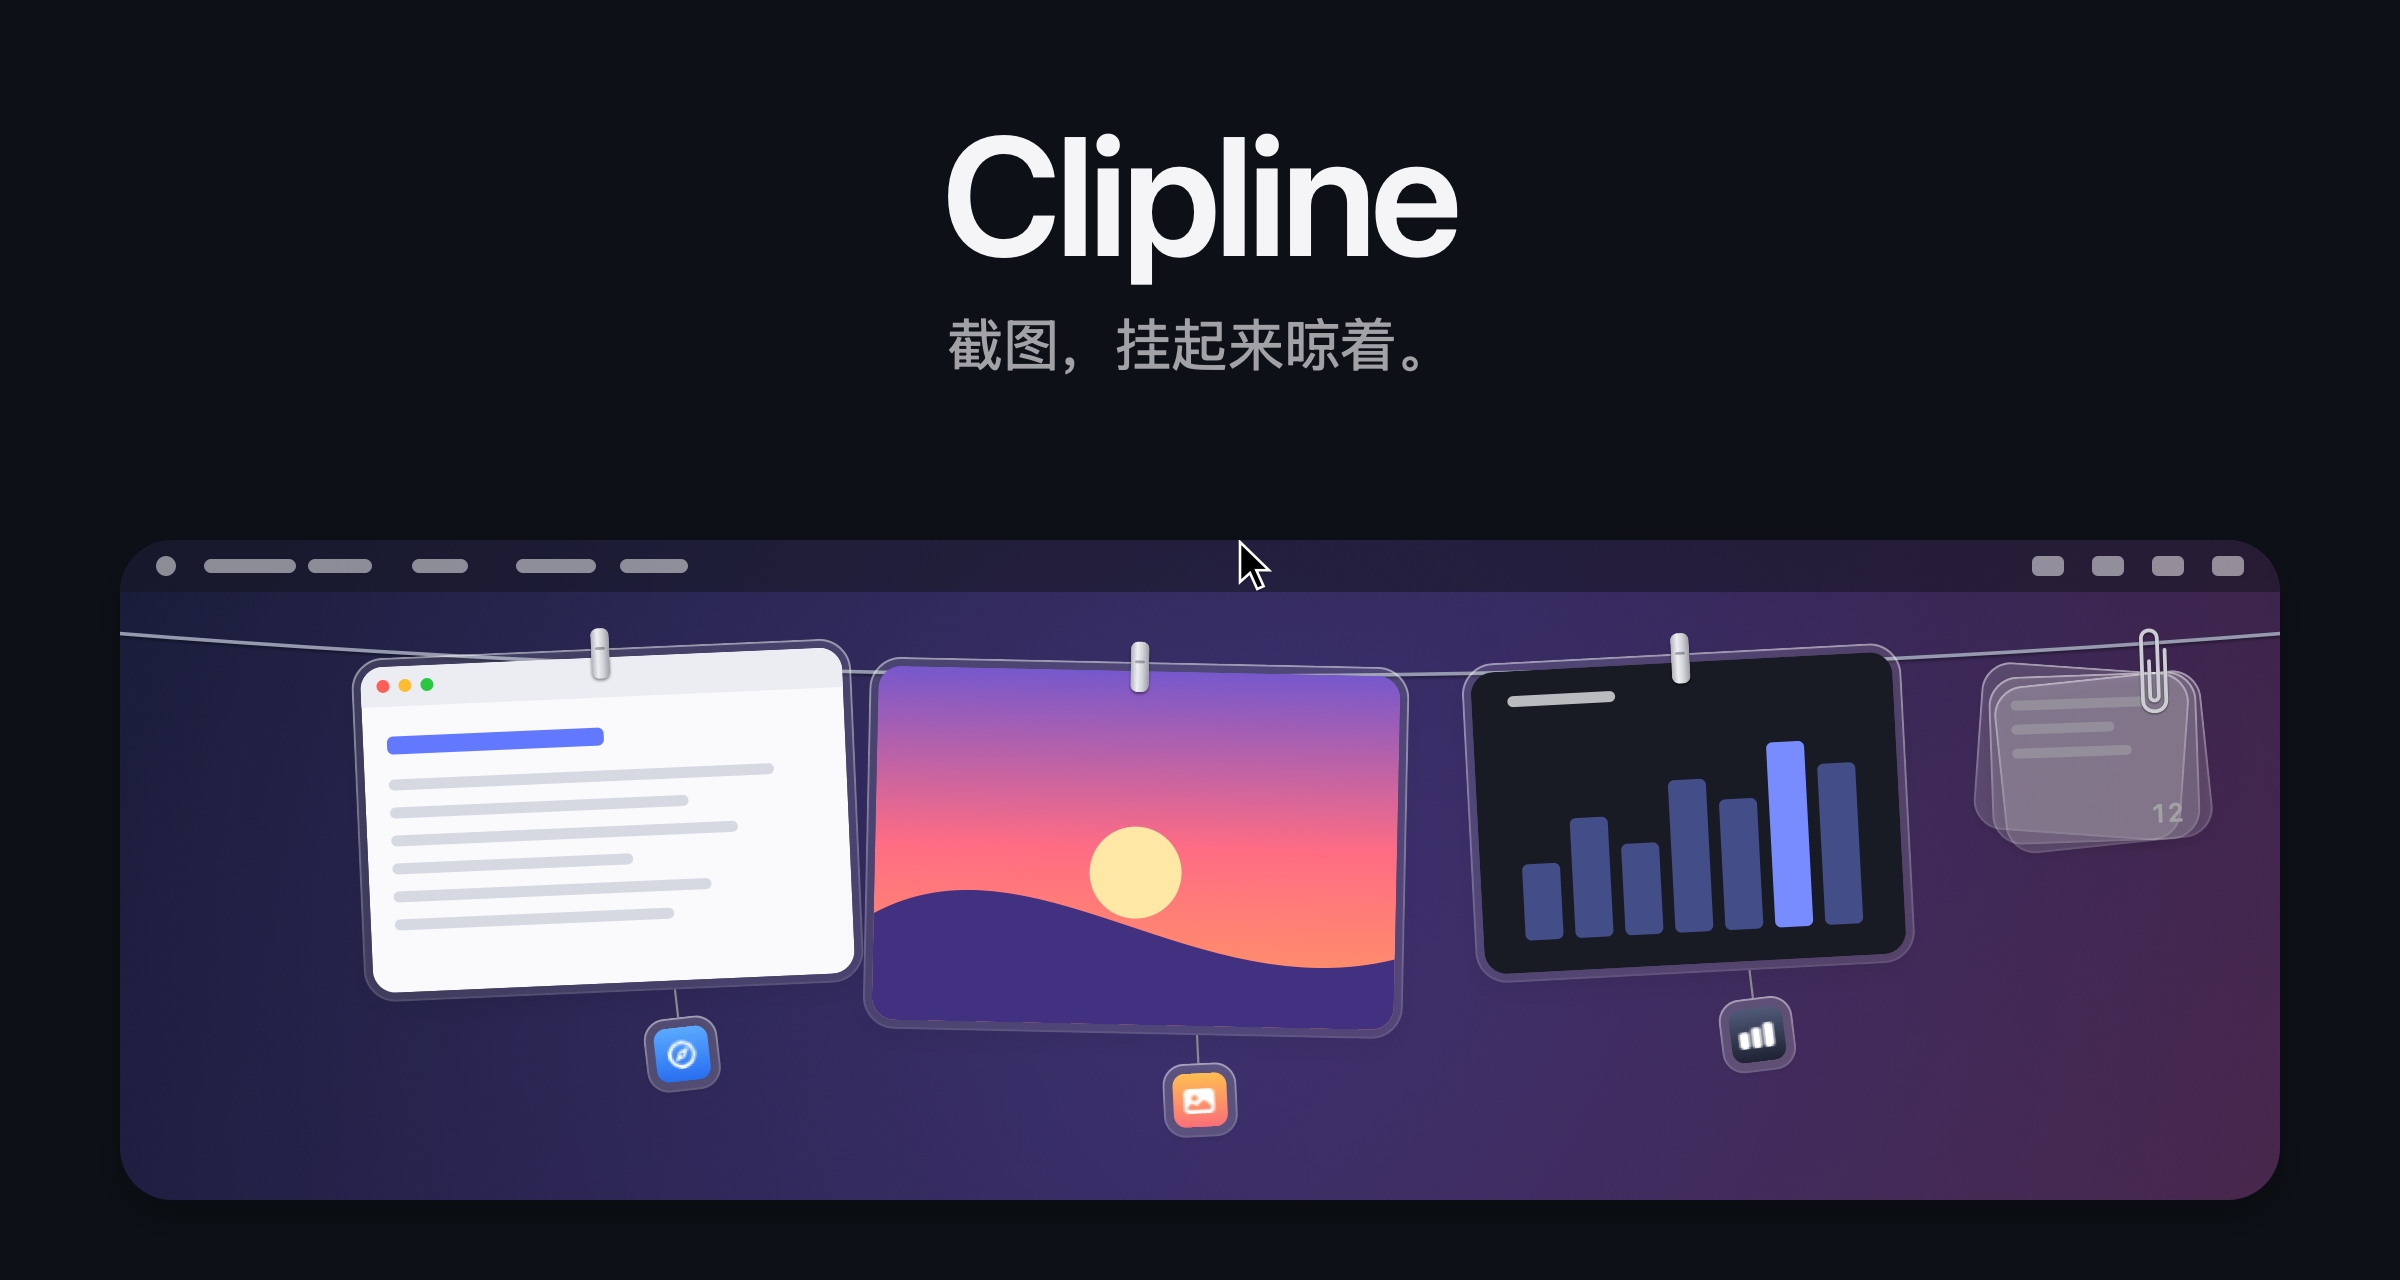
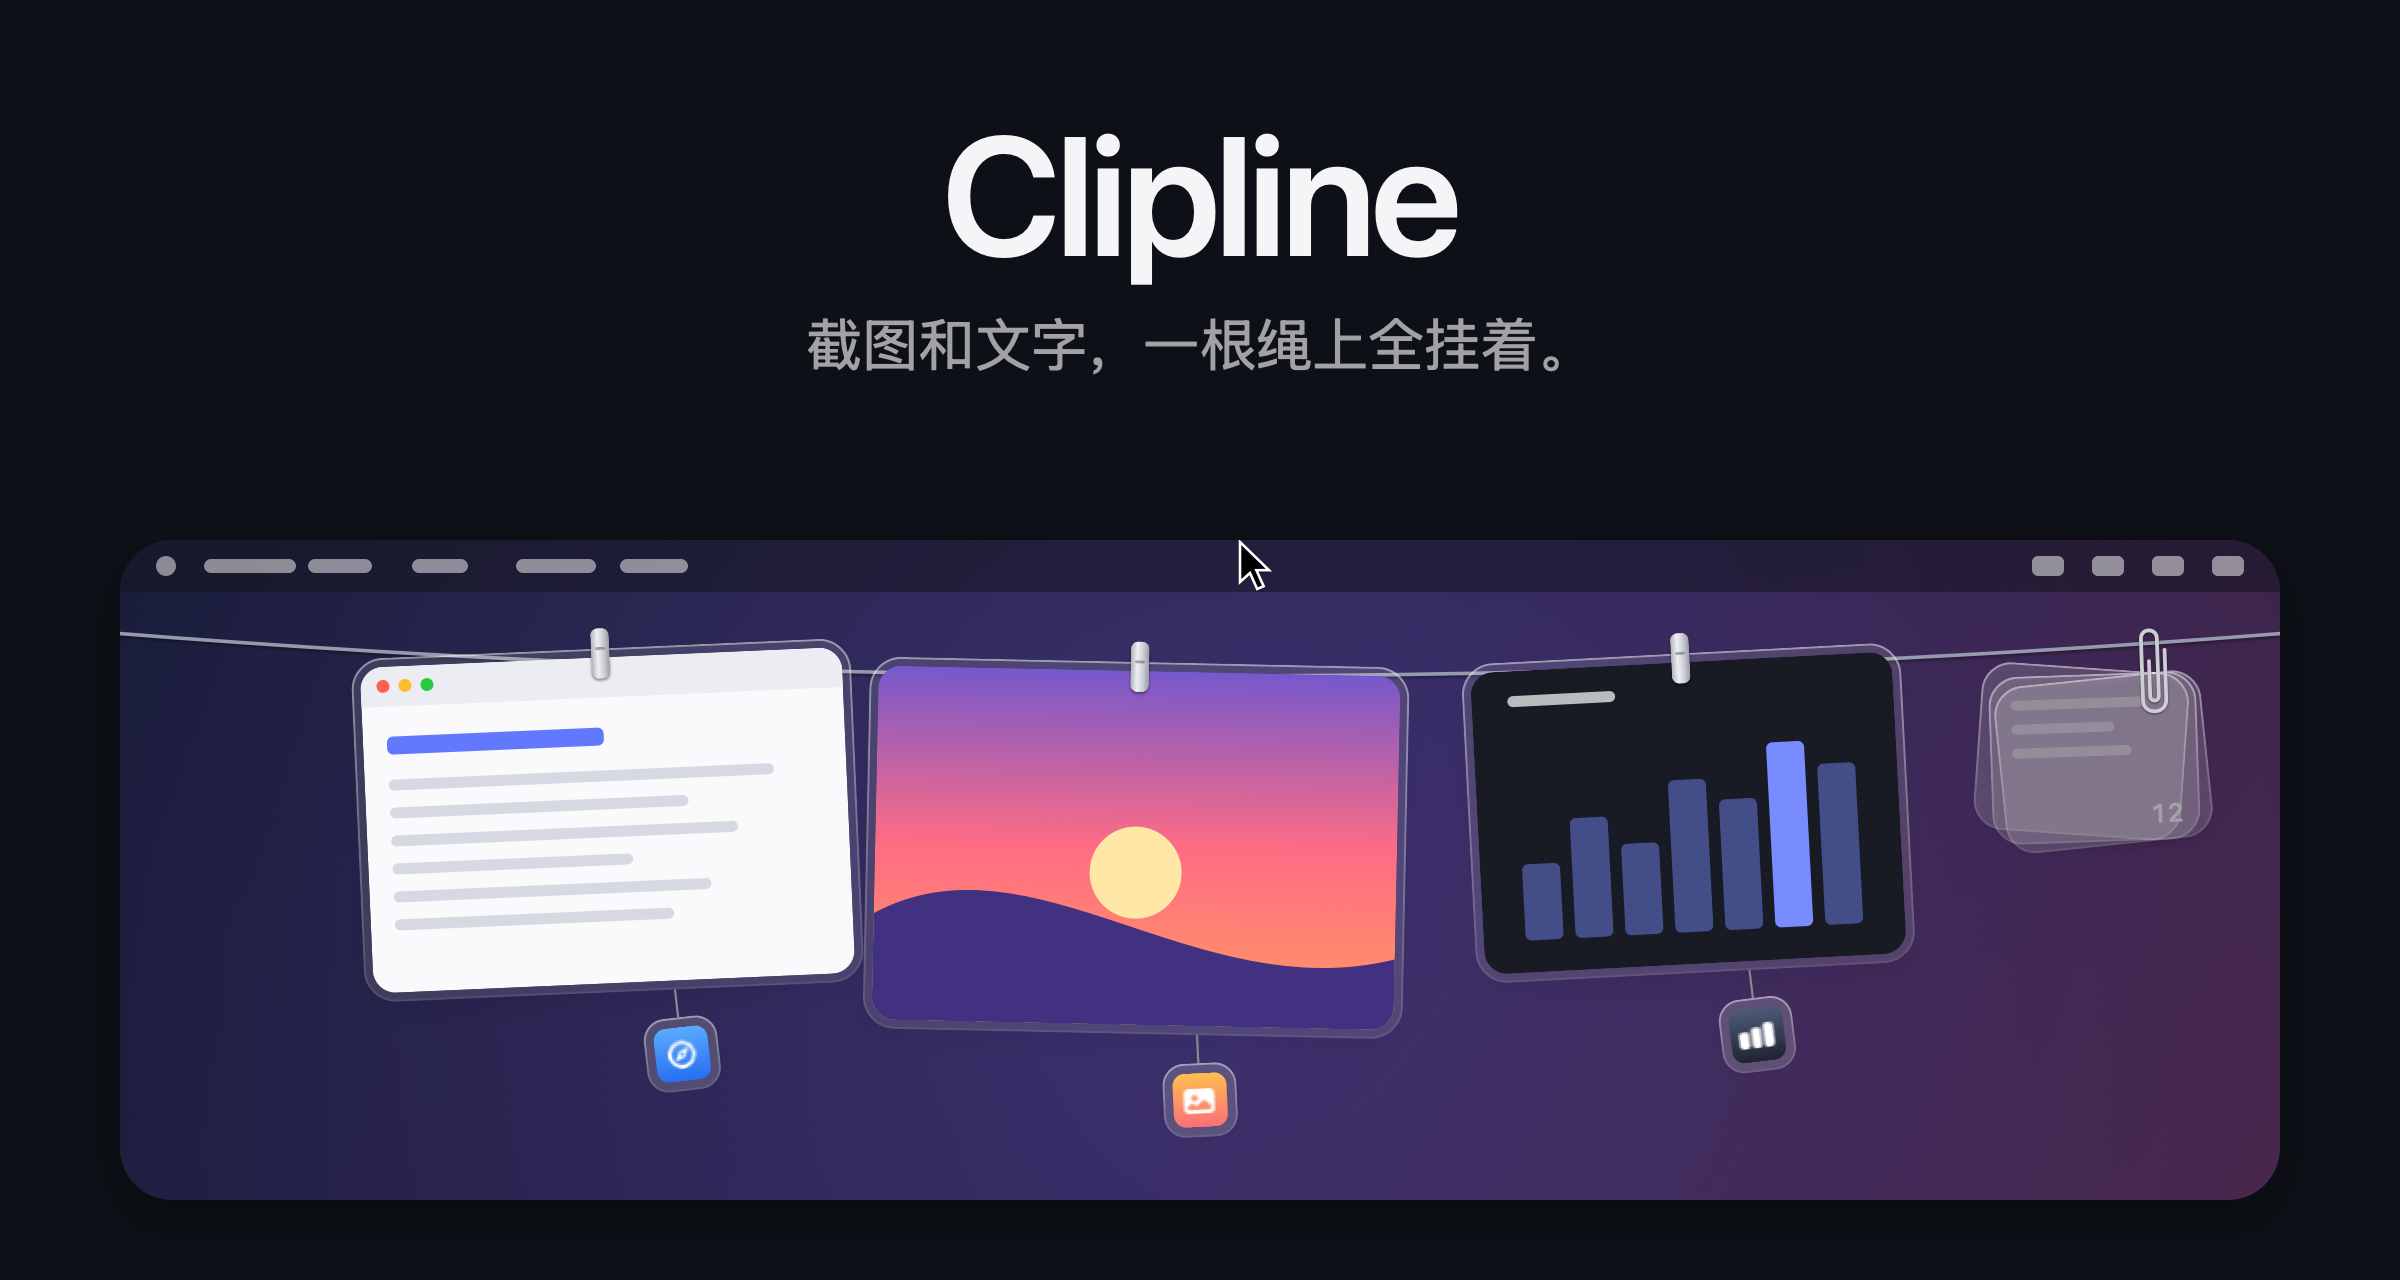
A slogan for screenshots and copied text alike

Changed region(s): [[0.3125, 0.25, 0.6562, 0.3125]]

diff --git a/scripts/make-readme-art.swift b/scripts/make-readme-art.swift
@@ -20,7 +20,7 @@ try! FileManager.default.createDirectory(atPath: outDir, withIntermediateDirecto
 // The words drawn into the images, keyed by the English text.
 let translations: [String: [String: String]] = [
     "zh-Hans": [
-        "Screenshots, hung out to dry.": "截图，挂起来晾着。",
+        "Screenshots and snippets, all on one line.": "截图和文字，一根绳上全挂着。",
         "Copied": "已复制",
         "Photos": "照片",
         "Click to copy.": "单击复制。",
@@ -449,7 +449,7 @@ func hero(_ t: Theme) {
     draw(rep, scale: s) { ctx in
         t.page.setFill(); NSRect(x: 0, y: 0, width: W, height: H).fill()
         text("Clipline", size: 84, weight: .semibold, color: t.ink, tracking: -2.4, centerX: W / 2, baselineY: H - 128)
-        text(T("Screenshots, hung out to dry."), size: 30, weight: .regular, color: t.secondaryInk,
+        text(T("Screenshots and snippets, all on one line."), size: 30, weight: .regular, color: t.secondaryInk,
              tracking: -0.4, centerX: W / 2, baselineY: H - 182)
         let frames = [Frame(x: 240, w: 250, h: 172, tilt: 2.5, kind: 0),
                       Frame(x: 510, w: 270, h: 186, tilt: -1.2, kind: 1),

diff --git a/docs/i18n/README.zh-Hans.md b/docs/i18n/README.zh-Hans.md
@@ -1,6 +1,6 @@
 <picture>
   <source media="(prefers-color-scheme: dark)" srcset="../images/zh-Hans/hero-dark.png">
-  <img src="../images/zh-Hans/hero-light.png" alt="Clipline。截图，挂起来晾着。三张截图装在玻璃相框里，挂在 macOS 菜单栏下方的一根细绳上，每张下面都有一个来源小标签，绳尾还夹着一叠复制的文字。">
+  <img src="../images/zh-Hans/hero-light.png" alt="Clipline。截图和文字，一根绳上全挂着。三张截图装在玻璃相框里，挂在 macOS 菜单栏下方的一根细绳上，每张下面都有一个来源小标签，绳尾还夹着一叠复制的文字。">
 </picture>
 
 <h3 align="center"><a href="../../../../releases/latest">下载最新版本&nbsp;&rsaquo;</a></h3>

diff --git a/README.md b/README.md
@@ -1,6 +1,6 @@
 <picture>
   <source media="(prefers-color-scheme: dark)" srcset="docs/images/hero-dark.png">
-  <img src="docs/images/hero-light.png" alt="Clipline. Screenshots, hung out to dry. Three screenshots in glass frames hang from a thin line under the macOS menu bar, each with a small source tag, and a clip of copied notes at the end.">
+  <img src="docs/images/hero-light.png" alt="Clipline. Screenshots and snippets, all on one line. Three screenshots in glass frames hang from a thin line under the macOS menu bar, each with a small source tag, and a clip of copied notes at the end.">
 </picture>
 
 <h3 align="center"><a href="../../releases/latest">Download the latest release&nbsp;&rsaquo;</a></h3>
